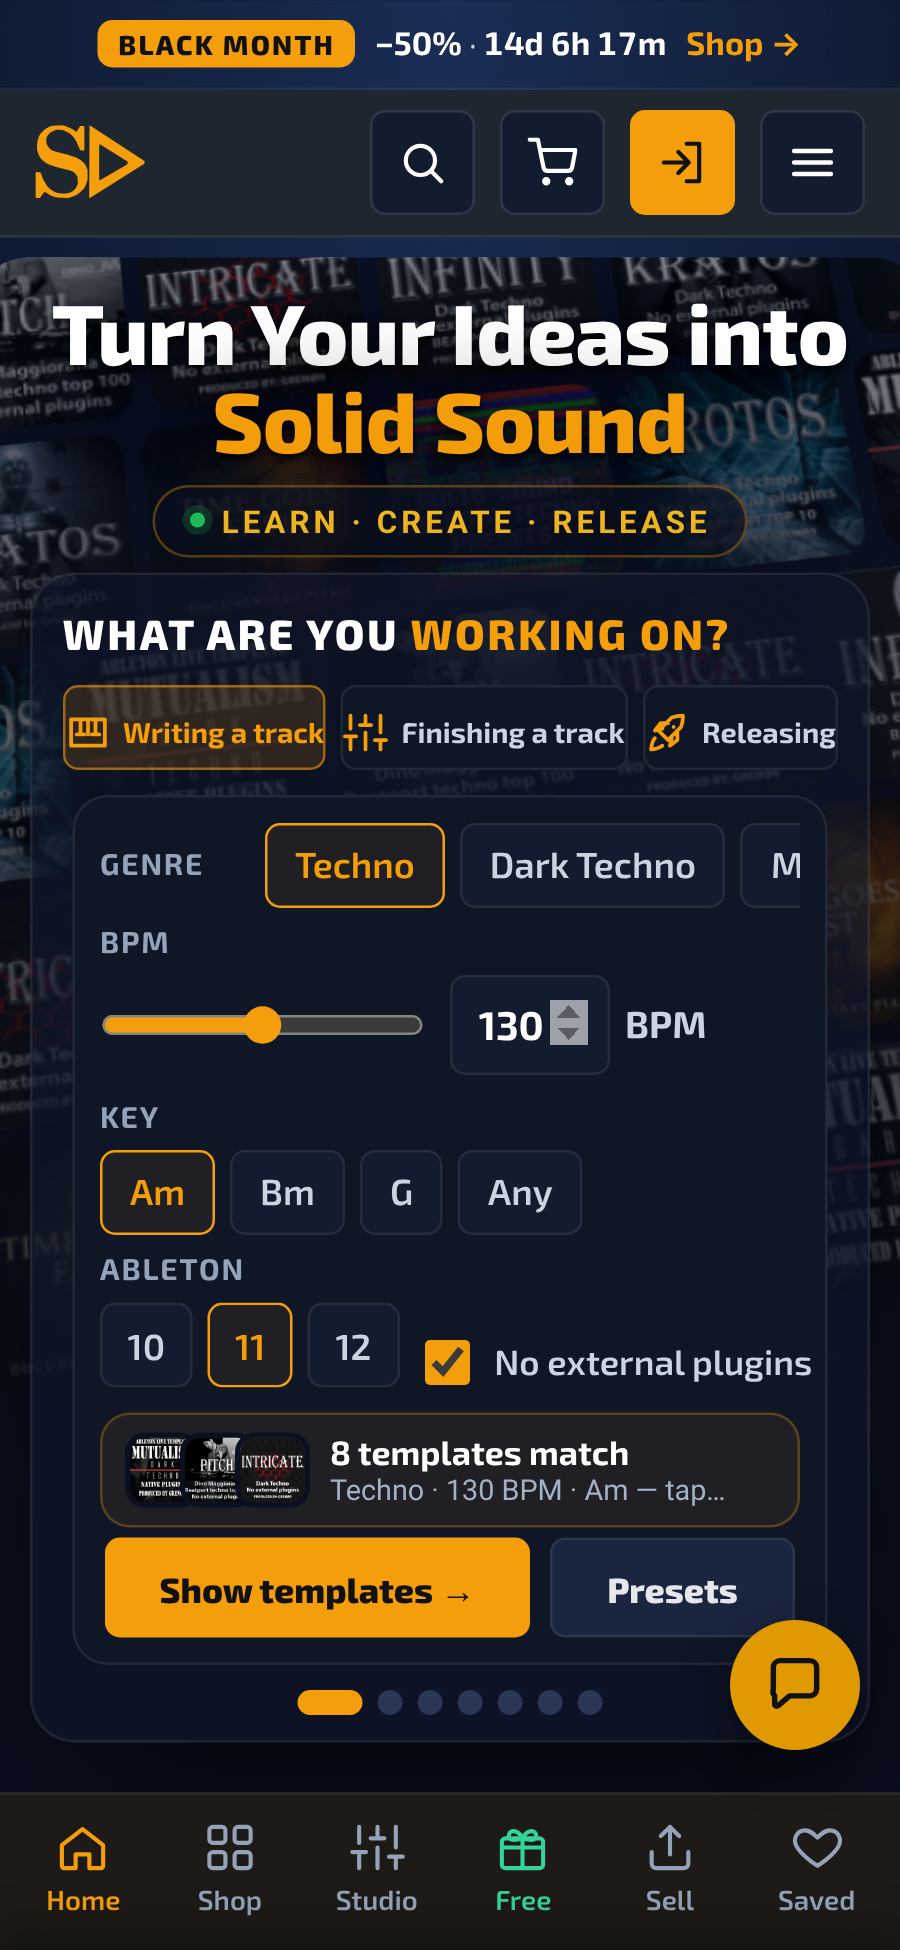
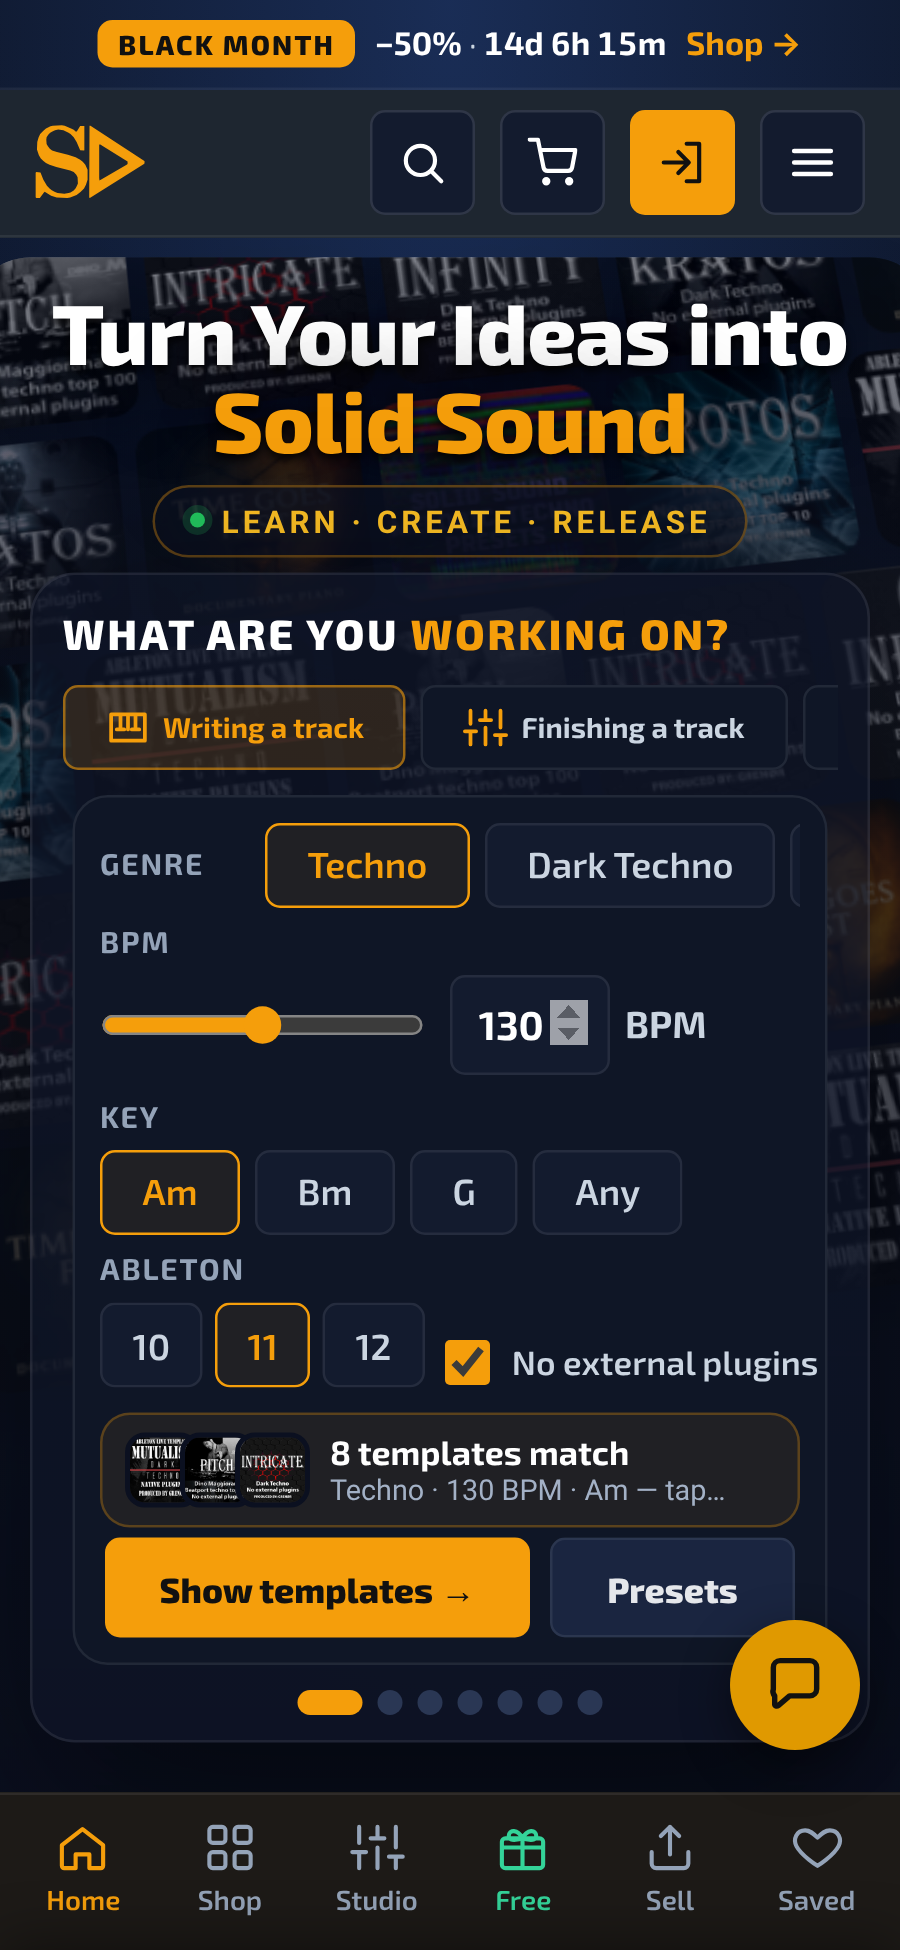
Home phones: side padding on button text
Claude-Session: https://claude.ai/code/session_01JfK5zSDYR2btK9FRr3xgU6

diff --git a/plugin/solid-sound-custom/build/modules/home-wow.php b/plugin/solid-sound-custom/build/modules/home-wow.php
@@ -88,11 +88,12 @@ body.ss-wow .ssx{position:relative;z-index:2;background:rgba(15,22,40,.66)!impor
 }
 /* owner 16.11: previous card look, only the template picker (genre / BPM / key / Ableton) a touch bigger on phones */
 @media(max-width:600px){
- body.ss-wow .ssx .card .chips span{height:34px!important;padding:0 11px!important;font-size:14.5px!important}
+ body.ss-wow .ssx .card .chips span{height:34px!important;padding:0 16px!important;font-size:14.5px!important}
+ body.ss-wow .ssx .tasks button,body.ss-wow #top .ssx [role=tablist] button,#top .ssx [role=tablist] button{padding:0 16px!important}body.ss-wow .ssx .cta,body.ss-wow .ssx .gbtn{padding:0 20px!important} /* owner 16.11: air on the sides of button text */
  body.ss-wow .ssx .card .f b{font-size:12px!important}
  body.ss-wow .ssx .rng .bpm input{height:35px!important;font-size:16px!important}
- body.ss-wow .ssx .chk{font-size:14px!important;white-space:nowrap;gap:6px!important}
- body.ss-wow .ssx .f.row:has(.chk){flex-wrap:nowrap!important;align-items:flex-end;gap:10px!important}body.ss-wow .ssx .f.row:has(.chk) .chips span{padding:0 10px!important}
+ body.ss-wow .ssx .chk{font-size:13.5px!important;white-space:nowrap;gap:5px!important}
+ body.ss-wow .ssx .f.row:has(.chk){flex-wrap:nowrap!important;align-items:flex-end;gap:8px!important}body.ss-wow .ssx .f.row:has(.chk) .chips span{padding:0 12px!important}body.ss-wow .ssx .f.row:has(.chk) .chips{gap:5px!important}
 }
 @media(max-width:380px){.ssw-hero .slg{font-size:34px!important}}
 @media(min-width:900px){.ssw-hero{padding:34px 12px 22px}.ssw-row a{width:168px;height:168px}}

diff --git a/plugin/solid-sound-custom/src/modules/home-wow.php b/plugin/solid-sound-custom/src/modules/home-wow.php
@@ -88,11 +88,12 @@ body.ss-wow .ssx{position:relative;z-index:2;background:rgba(15,22,40,.66)!impor
 }
 /* owner 16.11: previous card look, only the template picker (genre / BPM / key / Ableton) a touch bigger on phones */
 @media(max-width:600px){
- body.ss-wow .ssx .card .chips span{height:34px!important;padding:0 11px!important;font-size:14.5px!important}
+ body.ss-wow .ssx .card .chips span{height:34px!important;padding:0 16px!important;font-size:14.5px!important}
+ body.ss-wow .ssx .tasks button,body.ss-wow #top .ssx [role=tablist] button,#top .ssx [role=tablist] button{padding:0 16px!important}body.ss-wow .ssx .cta,body.ss-wow .ssx .gbtn{padding:0 20px!important} /* owner 16.11: air on the sides of button text */
  body.ss-wow .ssx .card .f b{font-size:12px!important}
  body.ss-wow .ssx .rng .bpm input{height:35px!important;font-size:16px!important}
- body.ss-wow .ssx .chk{font-size:14px!important;white-space:nowrap;gap:6px!important}
- body.ss-wow .ssx .f.row:has(.chk){flex-wrap:nowrap!important;align-items:flex-end;gap:10px!important}body.ss-wow .ssx .f.row:has(.chk) .chips span{padding:0 10px!important}
+ body.ss-wow .ssx .chk{font-size:13.5px!important;white-space:nowrap;gap:5px!important}
+ body.ss-wow .ssx .f.row:has(.chk){flex-wrap:nowrap!important;align-items:flex-end;gap:8px!important}body.ss-wow .ssx .f.row:has(.chk) .chips span{padding:0 12px!important}body.ss-wow .ssx .f.row:has(.chk) .chips{gap:5px!important}
 }
 @media(max-width:380px){.ssw-hero .slg{font-size:34px!important}}
 @media(min-width:900px){.ssw-hero{padding:34px 12px 22px}.ssw-row a{width:168px;height:168px}}
